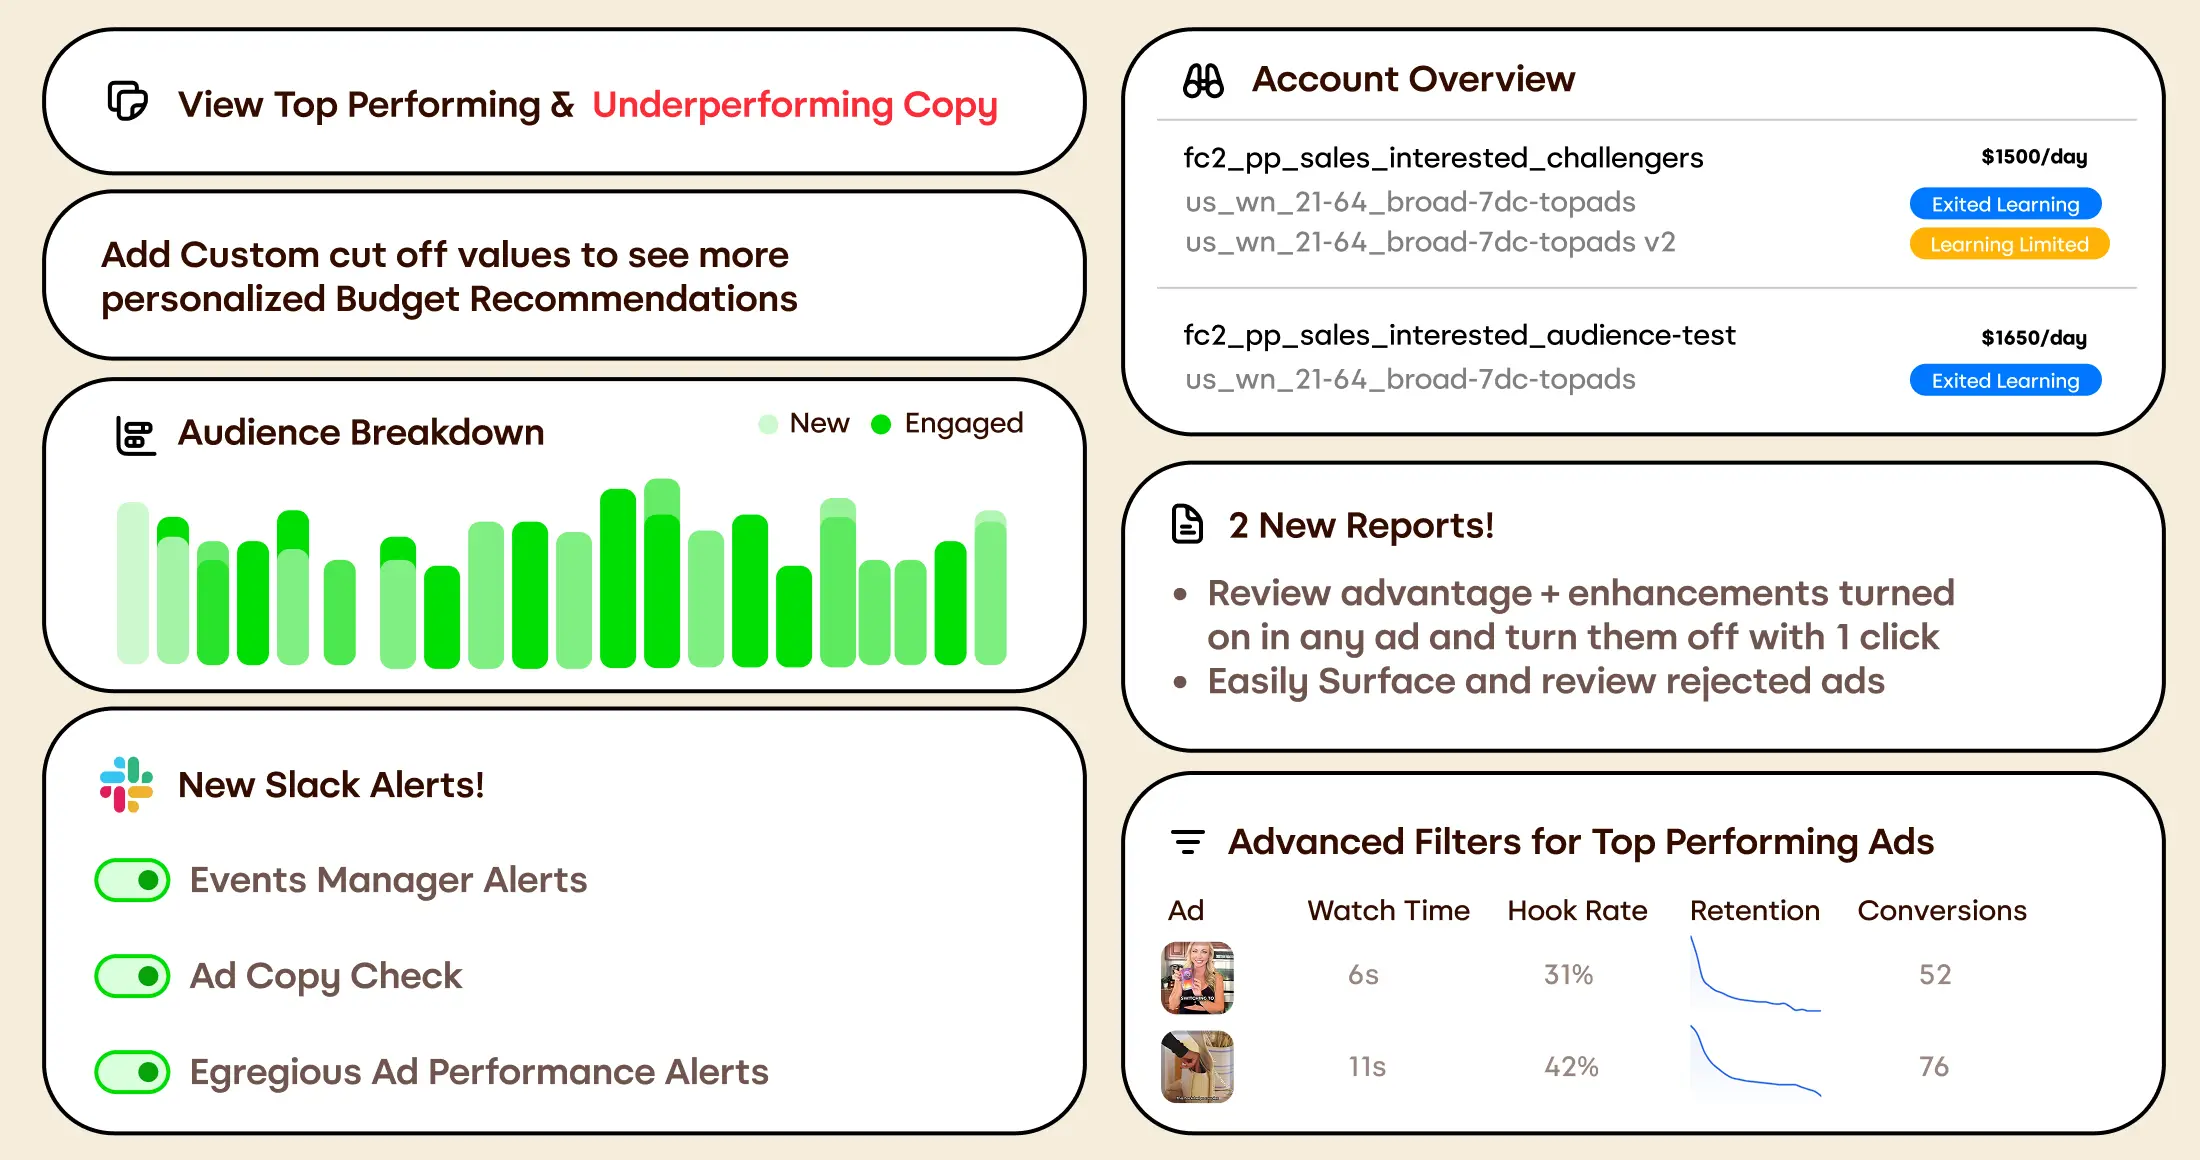
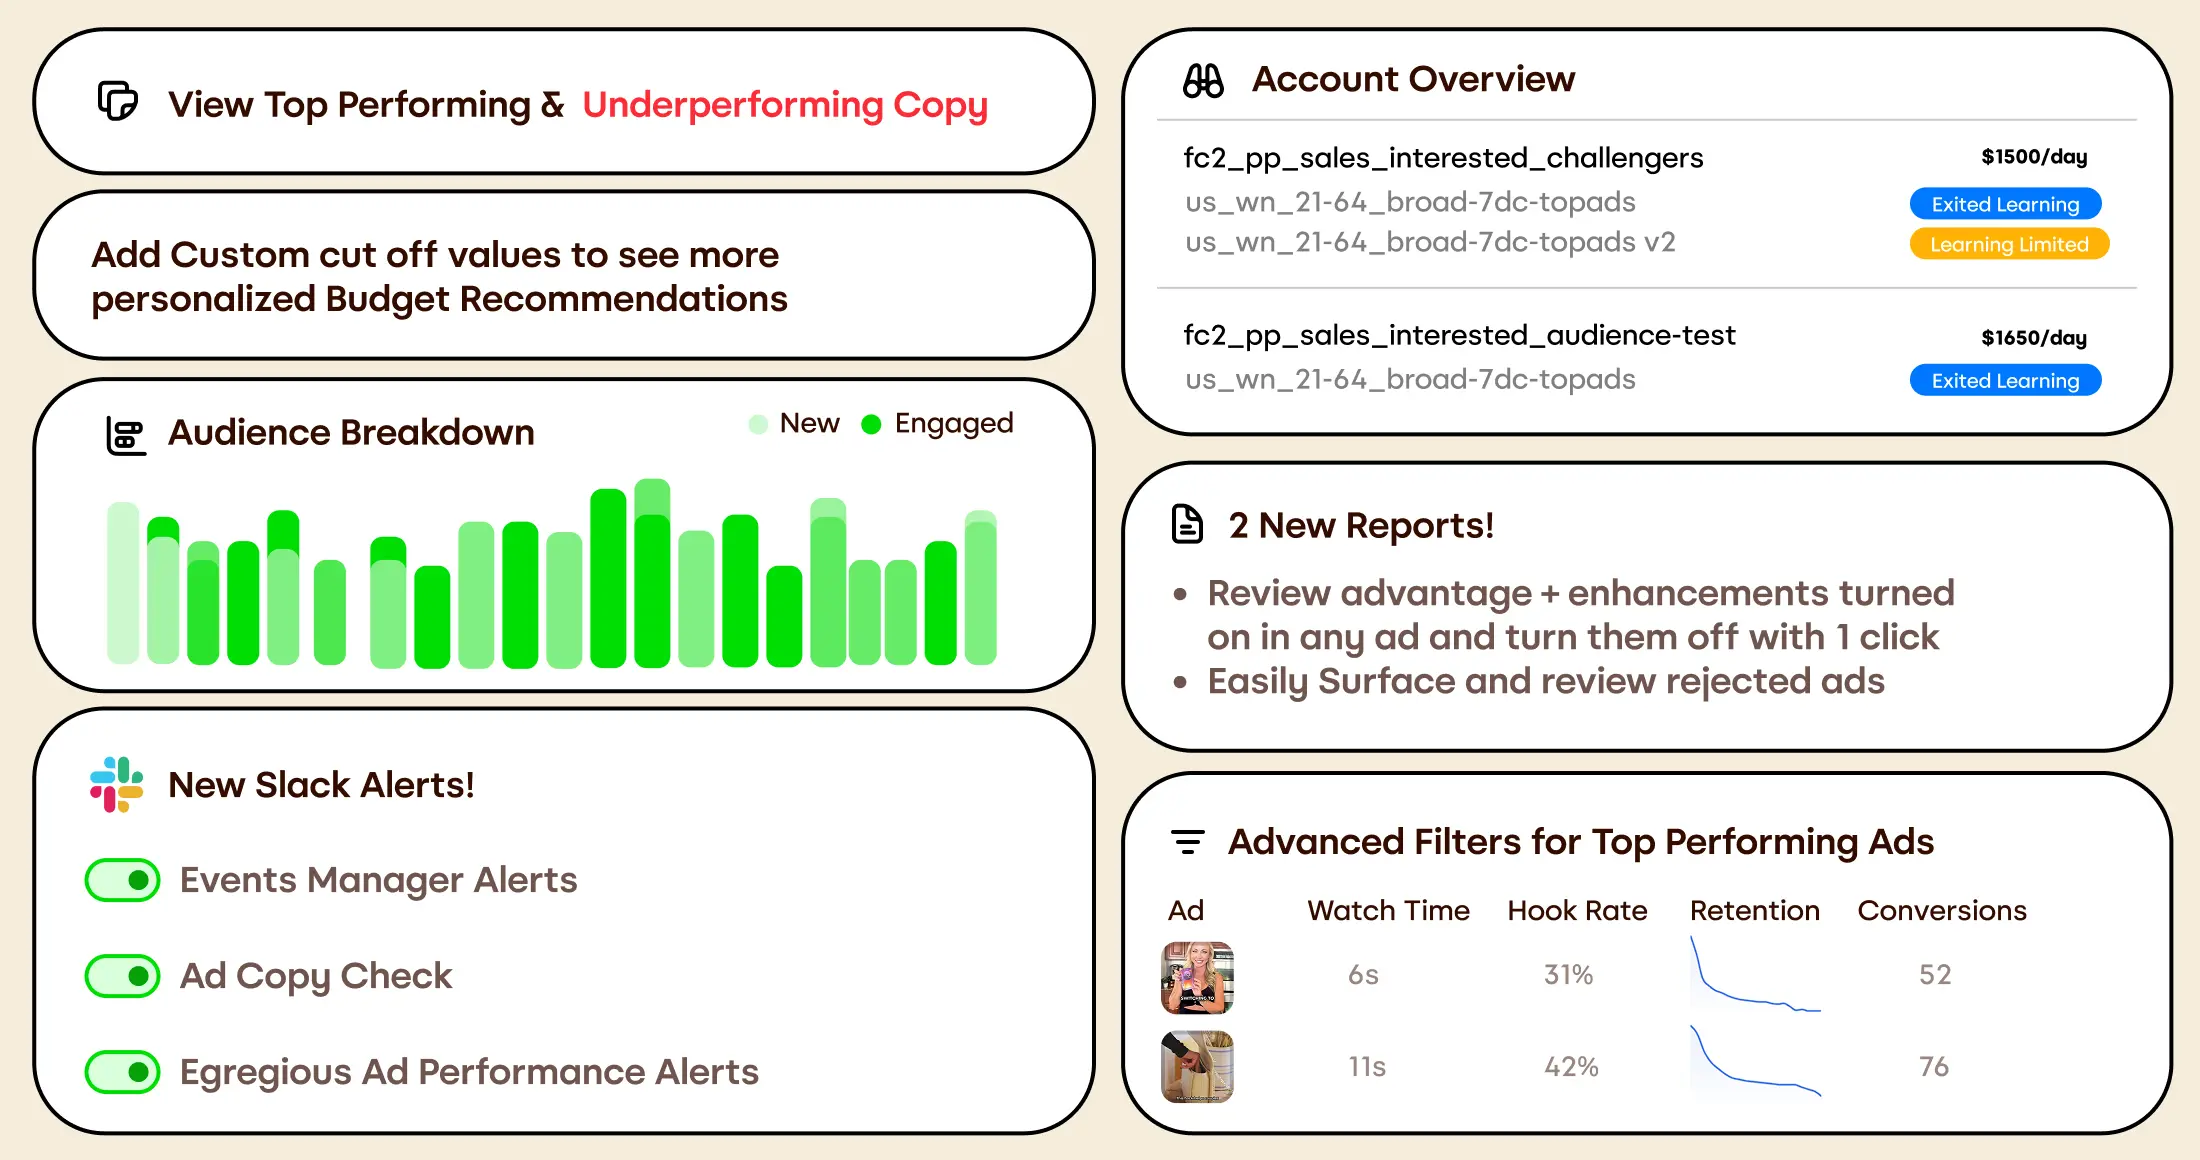
analytics update

diff --git a/src/components/onboarding-wizard.jsx b/src/components/onboarding-wizard.jsx
@@ -215,7 +215,7 @@ export default function OnboardingWizard({
     const headerText = isNewUser
         ? `Hey ${userName || "there"}`
         : isSingleCard
-            ? `Introducing ${activeCard.heading}`
+            ? activeCard.heading
             : `Hey ${userName || "there"}`
     const subText = isNewUser
         ? "Lets give you a really quick tour of how to get the most out of Blip!"
@@ -239,14 +239,14 @@ export default function OnboardingWizard({
                             <img src={headerIcon} alt="" className="w-7 h-7 object-contain" />
                             <h2 className="text-[22px] font-bold text-[#111827]">{headerText}</h2>
                         </div>
-                        <p className={`text-[13px] text-[#4B5563] leading-snug max-w-[440px] ${isSingleCard ? "mb-3" : "mb-4"}`}>{subText}</p>
+                        <p className={`text-[13px] text-[#4B5563] leading-snug max-w-[484px] ${isSingleCard ? "mb-3" : "mb-4"}`}>{subText}</p>
 
                         <ProgressDots steps={cards} activeIndex={cardIndex} />
 
                         {!isSingleCard && (
                             <>
                                 <h3 className="mt-4 text-[18px] font-bold text-[#111827]">{activeCard.heading}</h3>
-                                <p className="mt-1 text-[13px] text-[#4B5563] leading-snug max-w-[440px]">{activeCard.body}</p>
+                                <p className="mt-1 text-[13px] text-[#4B5563] leading-snug max-w-[484px]">{activeCard.body}</p>
                             </>
                         )}
 
